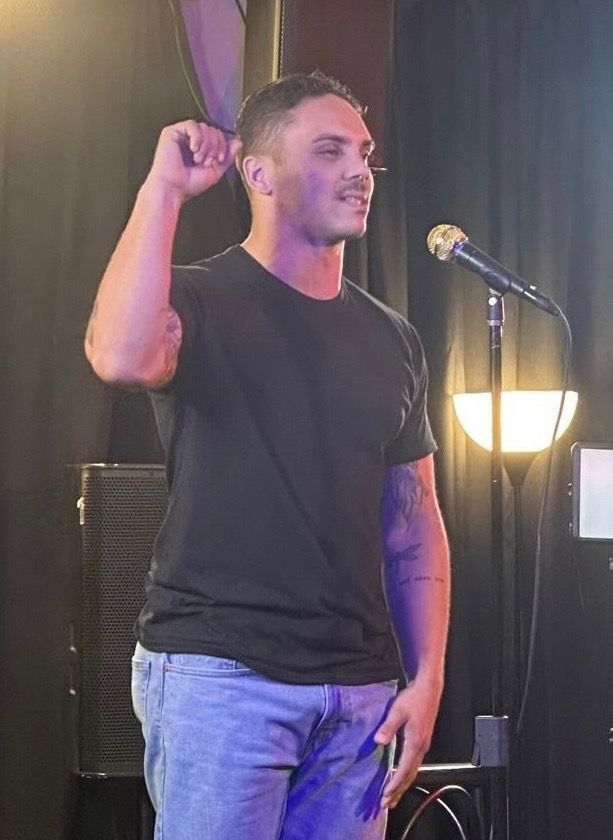
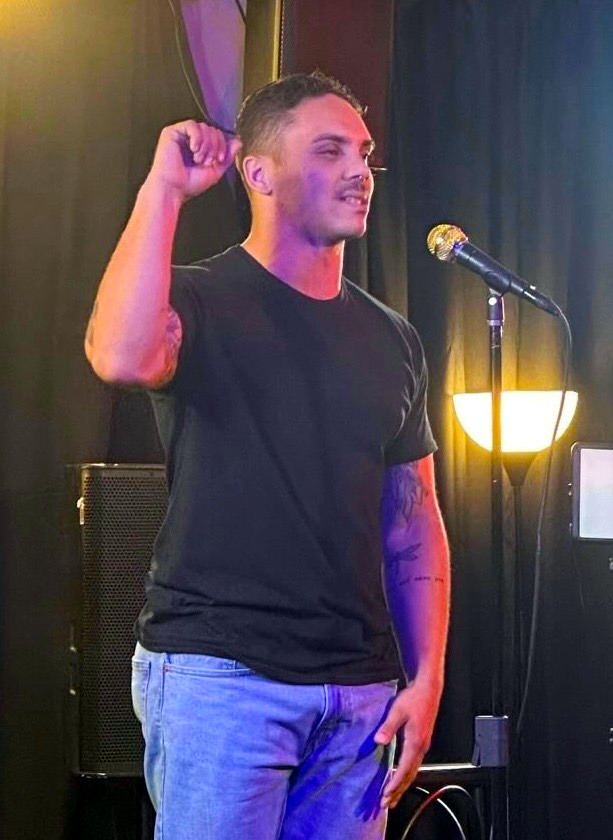
change gradient back, enhanced bio image colors

diff --git a/app/(home)/page.tsx b/app/(home)/page.tsx
@@ -3,18 +3,21 @@ import HomeContent from "@/components/HomeContent";
 
 export default async function HomePage() {
   return (
-    <div className="relative flex items-center justify-center overflow-hidden" style={{ height: 'calc(100vh - 240px)' }}>
+    <div
+      className="relative flex items-center justify-center overflow-hidden"
+      style={{ height: "calc(100vh - 160px)" }}
+    >
       {/* Background Image with Overlay - Adjusted positioning */}
       <div className="absolute inset-0 z-0">
         <Image
           src="/background-home.jpg"
           alt="The Poet Malik"
           fill
-          className="object-cover object-top"
+          className="object-cover"
           priority
           quality={100}
           style={{
-            objectPosition: "50% 5%", // Adjust this value to position the image
+            objectPosition: "50% 10%", // Show more of the top while covering full area
           }}
         />
         <div className="absolute inset-0 bg-gradient-overlay" />

diff --git a/app/globals.css b/app/globals.css
@@ -191,6 +191,25 @@ html {
         0px 0px 15px rgba(232, 232, 232, 0.2);
 }
 
+/* White version with gold outline */
+.header-logo-white-gold-outline {
+    font-family: "Montserrat", sans-serif;
+    font-weight: 600;
+    color: #e8e8e8; /* Soft white */
+    text-shadow:
+        /* Gold outline effect */
+        -1px -1px 0px rgba(212, 175, 55, 0.9),
+        1px -1px 0px rgba(212, 175, 55, 0.9),
+        -1px 1px 0px rgba(212, 175, 55, 0.9),
+        1px 1px 0px rgba(212, 175, 55, 0.9),
+        /* 3D depth shadows */
+        0px 2px 1px rgba(0, 0, 0, 0.6),
+        0px 3px 2px rgba(0, 0, 0, 0.4),
+        0px 4px 3px rgba(0, 0, 0, 0.3),
+        /* Gold glow */
+        0px 0px 20px rgba(212, 175, 55, 0.4);
+}
+
 /* Glass morphism effect for header */
 .bg-glass {
     background: rgba(17, 17, 17, 0.9);

diff --git a/components/Header.tsx b/components/Header.tsx
@@ -41,7 +41,7 @@ export default function Header() {
           {/* Logo/Name with enhanced typography */}
           <Link
             href="/"
-            className="text-display text-2xl md:text-3xl header-logo-white-3d hover:scale-105 transition-transform duration-300 focus-ring"
+            className="text-display text-2xl md:text-3xl header-logo-montserrat hover:scale-105 transition-transform duration-300 focus-ring"
           >
             The Poet Malik
           </Link>
